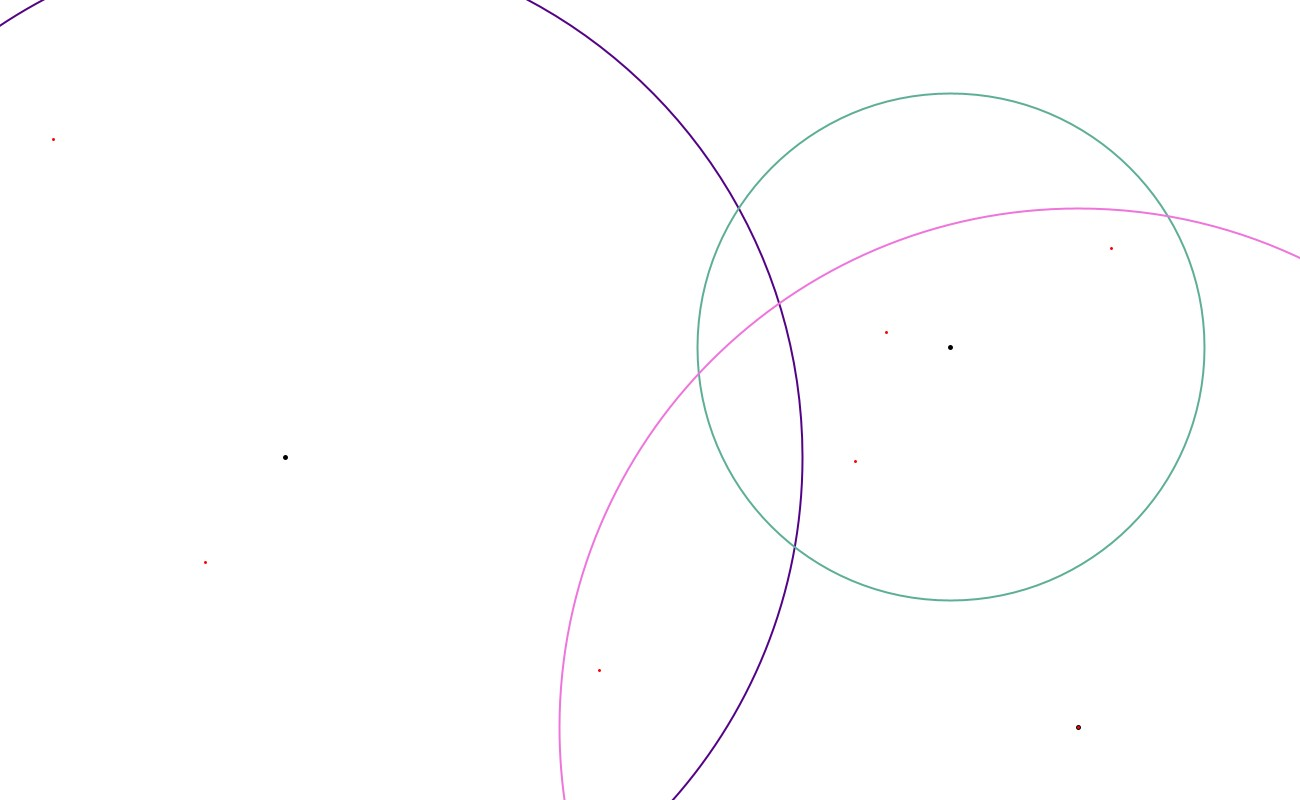
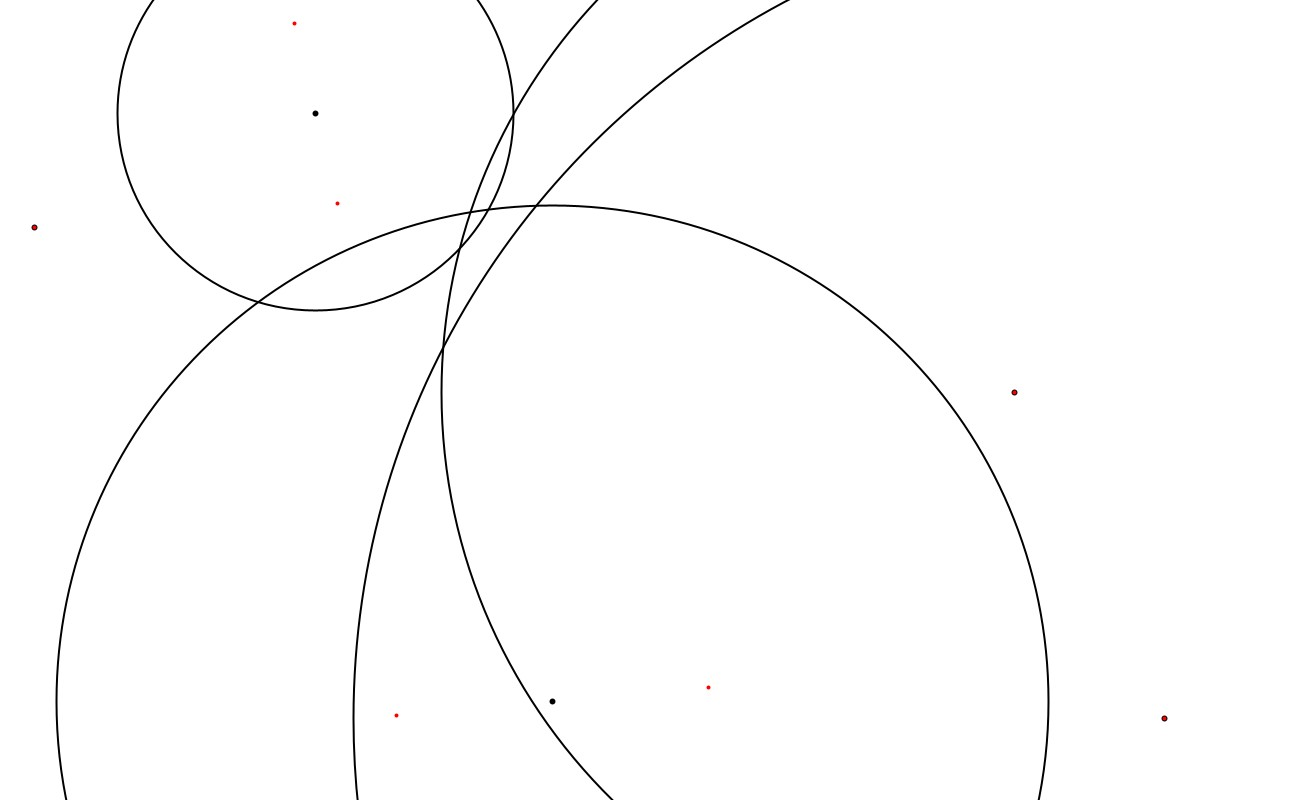
petit truc

diff --git a/Projet LOO2/src/Plan/Kmeans.java b/Projet LOO2/src/Plan/Kmeans.java
@@ -150,7 +150,10 @@ public class Kmeans {
     public void setupK_means() {
         Point[] arrayPoints = this.plan.getPoints().toArray(new Point[this.plan.getNbPoints()]);
         Collections.shuffle(Arrays.asList(arrayPoints));
-        for (int i = 0; i < this.getNbClusters(); i++) centres[i].copyPoint(arrayPoints[i]);
+        for (int i = 0; i < this.getNbClusters(); i++){ 
+            centres[i] = new Centre(0,0);
+            centres[i].setRandomRGB();
+            centres[i].copyPoint(arrayPoints[i]);}
     }
 
     /**
@@ -208,7 +211,7 @@ public class Kmeans {
         if (idCluster >= getNbClusters()) throw new IndexOutOfBoundsException("L'id du cluster est trop grand");
         else if (idCluster < 0) throw new NegativeValue();
         Point[] arrayPoints = this.plan.getPoints().toArray(new Point[this.plan.getNbPoints()]);
-        float maxDist = 0;
+        float maxDist = -1;
         Point maxPoint = null;
         for(int i = 0; i < centres[idCluster].getNbPoints(); i++){ // pour chaque point du cluster
             float dist = centres[idCluster].getDist(arrayPoints[i]);

diff --git a/Projet LOO2/src/Dessin/Dessin.java b/Projet LOO2/src/Dessin/Dessin.java
@@ -23,7 +23,7 @@ public class Dessin extends PApplet{
     Plan plan = new Plan();
     int act_save = 0; // indice de la sauvegarde actuelle.
     int nb_save = 0; //Nombre d'image sauvegardé et donc d'étape effectué 
-    Kmeans km = new Kmeans(plan,3);
+    Kmeans km = new Kmeans(plan,5);
             
 
     /**
